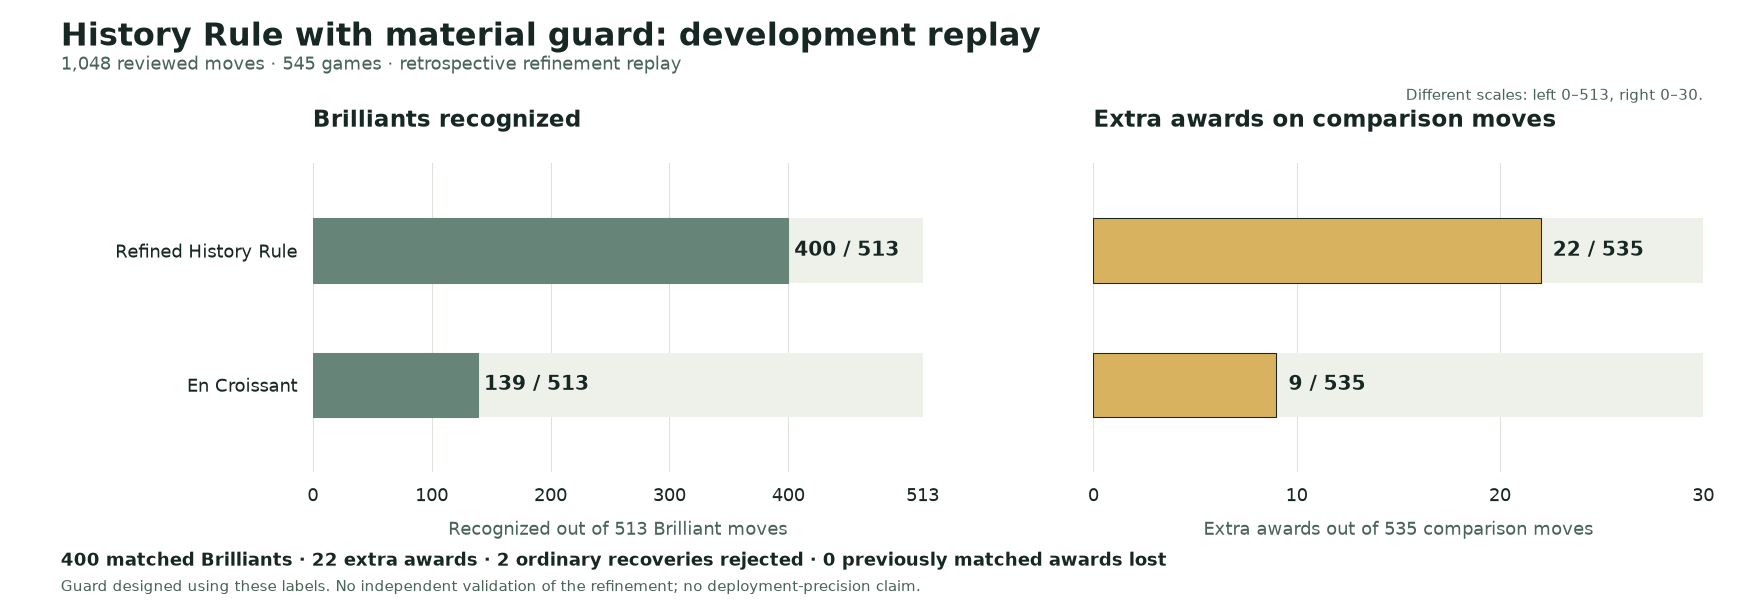
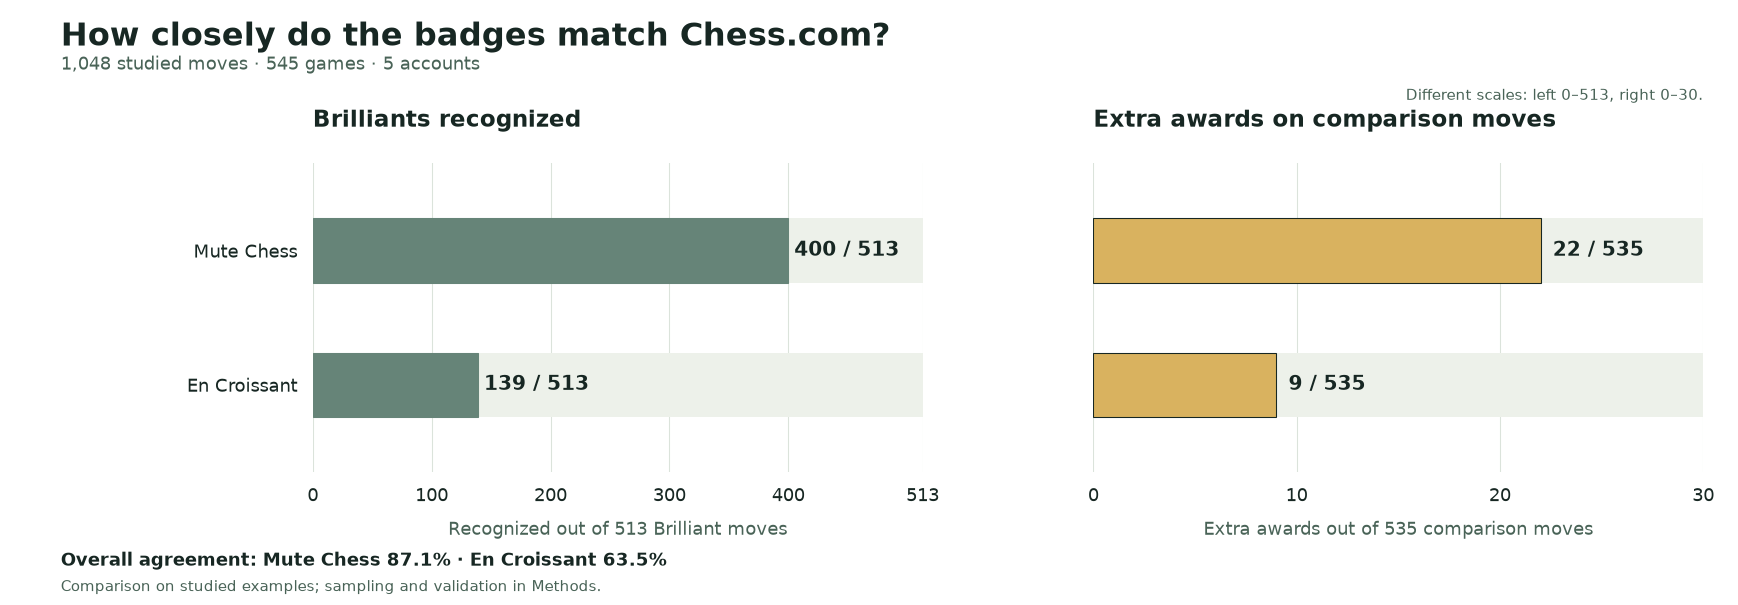
Rewrite Brilliant report as one visual reader-focused study

Changed region(s): [[0.0311, 0.8926, 0.6835, 0.9818], [0.0311, 0.0298, 0.6214, 0.119], [0.0621, 0.3868, 0.1864, 0.4463]]

diff --git a/studies/brilliant-moves/reader-figures.py b/studies/brilliant-moves/reader-figures.py
@@ -27,7 +27,7 @@ def render(names,filename,heading,footer,retrospective=False):
     fig,axes=plt.subplots(1,2,figsize=(15.8,5.5),dpi=110,sharey=True)
     fig.patch.set_facecolor('white')
     fig.suptitle(heading,x=.035,y=.965,ha='left',fontsize=21,color=COLORS['ink'],weight='bold')
-    fig.text(.035,.885,'1,048 reviewed moves · 545 games · retrospective refinement replay' if retrospective else '200 moves · 106 games · 100 observed Brilliant + 100 explicitly non-Brilliant',fontsize=12,color=COLORS['muted'])
+    fig.text(.035,.885,'1,048 studied moves · 545 games · 5 accounts' if retrospective else '200 moves · 106 games · 100 observed Brilliant + 100 explicitly non-Brilliant',fontsize=12,color=COLORS['muted'])
     audit=[]
     for ax,kind,title,color in zip(axes,['positive','negative'],['Brilliants recognized','Extra awards on comparison moves'],[COLORS['moss'],COLORS['gold']]):
         for i,(key,label) in enumerate(names):
@@ -47,7 +47,7 @@ def render(names,filename,heading,footer,retrospective=False):
     axes[1].tick_params(labelleft=False)
     fig.text(.98,.835,'Different scales: left 0–513, right 0–30.' if retrospective else 'Panels use different scales: left 0–100, right 0–10.',ha='right',fontsize=10,color=COLORS['muted'])
     fig.text(.035,.065,footer,fontsize=12,color=COLORS['ink'],weight='bold')
-    fig.text(.035,.023,'Guard designed using these labels. No independent validation of the refinement; no deployment-precision claim.' if retrospective else 'Balanced, challenging sample. These rates do not establish ordinary-game badge frequency or deployment precision.',fontsize=10,color=COLORS['muted'])
+    fig.text(.035,.023,'Comparison on studied examples; sampling and validation in Methods.' if retrospective else 'Balanced, challenging sample. These rates do not establish ordinary-game badge frequency or deployment precision.',fontsize=10,color=COLORS['muted'])
     fig.subplots_adjust(left=.18,right=.98,top=.73,bottom=.22,wspace=.28)
     out=ROOT/'figures';out.mkdir(exist_ok=True)
     for ext in ('png','svg'):fig.savefig(out/f'{filename}.{ext}',facecolor='white',dpi=110)
@@ -58,4 +58,4 @@ if __name__=='__main__':
     render([('S','Unrefined History Rule'),('ec_direct','En Croissant')],'history-vs-ec','Unrefined History Rule: historical independent test','78% recognized · 5 extra awards / 100 controls · 94.0% sample badge precision · 86.5% overall agreement')
     render([('forest','Mute selective model'),('S','Unrefined history rule'),('ec_direct','En Croissant')],'fresh-test-results','Matching Chess.com’s Brilliant badges','Selective model: 55% recognized · 1 extra / 100 controls · 98.2% sample precision · 77% agreement')
 
-    render([('refined','Refined History Rule'),('ec_direct','En Croissant')],'history-recovery-replay','History Rule with material guard: development replay','400 matched Brilliants · 22 extra awards · 2 ordinary recoveries rejected · 0 previously matched awards lost',True)
+    render([('refined','Mute Chess'),('ec_direct','En Croissant')],'history-recovery-replay','How closely do the badges match Chess.com?','Overall agreement: Mute Chess 87.1% · En Croissant 63.5%',True)

diff --git a/studies/brilliant-moves/REPORT.md b/studies/brilliant-moves/REPORT.md
@@ -1,49 +1,47 @@
-# Adopt the Mute History Rule—with a material-recovery guard
+# Making Brilliant badges feel at home on Mute Chess
 
-**We recommend the Mute History Rule with a narrow material-recovery guard.** It celebrates genuine sacrifice ideas while rejecting two ordinary recoveries that previously received extra badges.
+Chess.com’s Brilliant badge makes a good chess idea feel special. Our goal is to bring that experience to an open chess platform: celebrate sound sacrifices, including quiet ones, with rules that anyone can inspect.
 
-Across **1,048 reviewed moves**, the refined rule retains **all 400 previously matched Chess.com Brilliants**, misses 113, and gives **22 extra awards** among 535 explicitly non-Brilliant moves. The guard removes two extras and changes no other decision in this replay.
+**We recommend adopting the Mute History Rule.** It recognizes substantially more of the studied Chess.com Brilliants than our En Croissant starting point, while checking for repeated offers and ordinary material recovery.
 
-**This is development evidence, not an independent accuracy test of the refinement.** The guard was designed using these positions and labels. It has **zero new unseen validation moves**. Preserving 400 matching awards here does not guarantee that no future Brilliant will be lost.
+## What we studied
 
-![Refined History Rule and En Croissant on the reviewed development corpus.](figures/history-recovery-replay.png)
+We examined **1,048 labeled moves from 545 games** played by nelsi, hansen, KNVB, GothamChess and Hikaru. Each move has a recorded Chess.com classification, its full game history and engine analysis. We compared our rule with En Croissant on the same positions and analysis.
 
-## What the evidence establishes
+Chess.com does not publish its complete formula. Its [guidance](https://support.chess.com/en/articles/8572705-how-are-moves-classified-what-is-a-blunder-or-brilliant-etc) describes good piece sacrifices, position conditions and player-strength considerations. We used those published ideas and the observed moves to build an understandable Mute policy.
 
-The corpus contains **1,048 moves from 545 games** across nelsi, hansen, KNVB, GothamChess and Hikaru. It supports two distinct evidence types:
+## The rules we chose
 
-| Evidence | Result | What it tests |
-| --- | --- | --- |
-| Refined rule: all 1,048 reviewed moves | **400 matches, 113 misses, 22 extras, 513 correct withholds** | Retrospective development replay |
-| Frozen History Rule: separate 200-move test | **78 matches, 22 misses, 5 extras, 95 correct withholds** | Independent test of the rule **without the new guard** |
-| Unseen test of the material guard | **Not yet available** | Needed to assess generalization of the refinement |
+- **Keep the move sound.** Current and previous completed engine checks must both support its quality.
+- **Look for a real piece offer.** The offered piece can be somewhere other than the piece that moved.
+- **Check the position’s context.** An already-converted position with a safe winning alternative should not receive an automatic sacrifice badge.
+- **Remember earlier offers.** A quiet follow-up should not earn another badge merely because the same sacrifice remains available; a new tactical idea can make the difference.
+- **Account for ordinary recovery.** Some apparent offers simply recover material elsewhere. A narrow check covers legal defenses before withholding those badges.
 
-The frozen 200-move result remains **86.5% agreement**, **78% recognition** and **94.0% sample badge precision**. It recognized three times En Croissant’s 26 Brilliants, with five extras versus two. Applying the new guard to that same subset leaves three extras, but **that is retrospective reuse, not a revised untouched test score**. Neither result establishes 90% agreement or deployment precision.
+## Quiet moves can be Brilliant
 
-## Two ordinary recoveries that should not earn Brilliant
+![A quiet bishop retreat leaves a rook available.](visuals/outputs/quiet-offer-bg2.gif)
 
-![A knight is recovered on another square after hxg6.](visuals/outputs/routine-hxg6.gif)
+[Hikaru’s 27.Bg2](https://www.chess.com/analysis/game/live/186567991235/review?move=52) retreats a bishop while leaving a rook available. Chess.com and Mute both recognize the idea. The illustrated **...Bxb1 Rxb1** continuation trades a rook for a bishop; these replies are conditional, not claimed forced or played.
 
-After [nelsi’s 18...hxg6](https://www.chess.com/analysis/game/live/171488501692/review?move=35), White can take the knight with **Bxc4**. Black has **...Qc5+**, followed by **...Qxc4** after each legal defense. The illustrated **Kh1** is just one of four replies covered by the material check. The knight and bishop are traded; Black finishes a pawn ahead. Chess.com labels hxg6 Best, and the refined rule withholds Brilliant.
+## An apparent sacrifice can be an ordinary trade
 
-![After hxg5, a quiet bishop move enables recovery of another rook.](visuals/outputs/routine-hxg5.gif)
+![After hxg6, a queen check enables recovery on another square.](visuals/outputs/routine-hxg6.gif)
 
-After [hansen’s 15...hxg5](https://www.chess.com/analysis/game/live/173517772799/review?move=29), **Bxa8** appears to win a rook. But **...Ba6** creates a threat against the other rook. The illustrated **Bg2 Bxf1 Rxf1** continuation returns material to balance. The check covers all 43 legal replies to Ba6, with different recovery captures where needed. Chess.com labels hxg5 Best; the refined rule now agrees.
+After [18...hxg6](https://www.chess.com/analysis/game/live/171488501692/review?move=35), **Bxc4 Qc5+** lets Black recover the bishop after every legal defense. The animation shows one such continuation. Black trades a knight for a bishop and finishes a pawn ahead. Chess.com calls hxg6 Best, and Mute withholds Brilliant. The [rook-recovery example](visuals/outputs/routine-hxg5.gif) shows a similar distinction.
 
-Only each first move has the observed label. Subsequent moves are **conditional legal illustrations**, not asserted game continuations or forced choices. The recovery certificate covers defenses more broadly than the single animation, within its documented finite material model.
+## How closely do the badges match?
 
-## How the classifier makes the call
+![Mute Chess and En Croissant compared with Chess.com on the studied examples.](figures/history-recovery-replay.png)
 
-The History Rule requires a legal piece offer, adequate engine-assessed quality and corroborating sacrifice or mating evidence. Current and previous completed engine checks must both pass. Its history check prevents an unchanged quiet follow-up earning another badge merely because an earlier awarded sacrifice remains available. New tactical ideas have documented exceptions.
+| On the studied examples | Mute Chess | En Croissant |
+| --- | ---: | ---: |
+| Chess.com Brilliants recognized | **400 / 513** | 139 / 513 |
+| Extra awards on non-Brilliant moves | **22 / 535** | 9 / 535 |
+| Overall agreement | **87.1%** | 63.5% |
 
-The material guard is deliberately narrower than “material comes back, so no Brilliant.” It applies only to an eligible non-checking capture that leaves **all offered pieces unmoved and already exposed**. The opponent’s best after-position move must accept an eligible offer in **both completed engine windows**.
+Mute recognizes about **2.9 times as many Brilliants**, with more extra awards. That is the explicit tradeoff behind our recommendation: make more worthwhile ideas visible, using documented rules rather than treating every temporary offer as special.
 
-For every qualifying acceptance, the guard must find a quiet response covering **every legal defense** with a stable material-recovery capture. Its exact threshold, same-square recapture accounting and search caps are open in the [algorithm README](README.md). Missing evidence or exhausted limits cannot establish a veto. Newly created offers and moved-piece sacrifices are protected by these eligibility restrictions.
+**These results describe the studied examples; fresh-game testing is underway before release.**
 
-## Keep the genuine ideas
-
-The guard preserves all previously matched Brilliants in the reviewed corpus, including [Hansen’s Bxh7+ example](visuals/outputs/fresh-bxh7.gif). It also preserves the development [quiet Bg2 idea](visuals/outputs/quiet-offer-bg2.gif), where a bishop retreat leaves a rook available. Recovery alone is not a generic reason to reject a tactical sacrifice.
-
-We recommend this documented heuristic as a Mute policy, not a reconstruction of [Chess.com’s private formula](https://support.chess.com/en/articles/8572705-how-are-moves-classified-what-is-a-blunder-or-brilliant-etc). The balanced, challenging corpus and five established accounts do not establish beginner behavior or ordinary-game badge frequency. Game Review labels are comparison evidence; moves share games, limiting independent-move uncertainty estimates.
-
-Adoption is recommended, **not claimed deployed**. Research evidence uses **SF18 at 300,000 requested nodes**. Native SF19 and varying browser budgets remain unvalidated. Mobile Maia stays on its existing En Croissant-based classifier. [Methods](METHODS.md), [exact rules](README.md) and preserved historical results make those boundaries inspectable.
+Adopt the History Rule for Mute Chess. Keep the [exact algorithm](README.md), [sampling and validation methods](METHODS.md), and move-level evidence open. Mobile Maia keeps its existing En Croissant-based classifier.

diff --git a/README.md b/README.md
@@ -2,19 +2,17 @@
 
 Readable studies, visual explanations and the evidence behind Mute Chess's design decisions.
 
-## Brilliant moves: History Rule with a material-recovery guard
+## Brilliant moves: a Chess.com-like experience with open rules
 
-![The refined History Rule on the reviewed development corpus.](studies/brilliant-moves/figures/history-recovery-replay.png)
+![Mute Chess and En Croissant compared on the studied examples.](studies/brilliant-moves/figures/history-recovery-replay.png)
 
-**[Read: Adopt the Mute History Rule—with a material-recovery guard →](studies/brilliant-moves/REPORT.md)**
+**[Read: Making Brilliant badges feel at home on Mute Chess →](studies/brilliant-moves/REPORT.md)**
 
-We recommend the **Mute History Rule with a narrow material-recovery guard**. In the 1,048-move development replay it retains **all 400 previously matched Chess.com Brilliants** and removes exactly two extra awards; **22 extras and 113 misses remain**. The guard was designed using these positions and labels: **it has no new unseen validation yet**.
+We recommend the **Mute History Rule**. Across **1,048 studied moves from 545 games**, it recognizes **400 of 513 Chess.com Brilliants**, compared with En Croissant’s 139. Overall agreement is **87.1% versus 63.5%**. Mute also gives more extra awards: **22 of 535 comparison moves versus 9**. The report explains the tradeoff through quiet sacrifices, repeated offers and ordinary material recovery.
 
-The preserved independent 200-move test of the **unrefined** History Rule recognized 78/100 Brilliants with 5 extra awards, 86.5% agreement and 94.0% sample badge precision. The refined 78/3 result on that same subset is retrospective reuse, **not a revised untouched test score**. The full corpus covers 545 games; comparison models and original evidence remain inspectable.
+**These results describe the studied examples; fresh-game testing is underway before release.** Mobile Maia keeps its existing En Croissant-based classifier.
 
-Two native-board illustrations show why ordinary hxg6/hxg5 recoveries are now withheld while all 400 previously matched awards remain. This does not guarantee that no future Brilliant will be lost. **Adoption is recommended, not claimed deployed. Native SF19 and variable browser budgets remain unvalidated. Mobile Maia stays unchanged.**
-
-[Exact rules](studies/brilliant-moves/README.md) · [Methods and evidence roles](studies/brilliant-moves/METHODS.md) · [Refinement outcomes](studies/brilliant-moves/data/history-recovery-results.json) · [Original move-level evidence](studies/brilliant-moves/moves.csv) · [Earlier 618-move report](https://github.com/Dash1971/mute-chess-research/blob/c6969d1/studies/brilliant-moves/REPORT.md)
+[Exact rules](studies/brilliant-moves/README.md) · [Methods and validation](studies/brilliant-moves/METHODS.md) · [Move-level evidence](studies/brilliant-moves/moves.csv)
 
 ## Elo seeding: giving human-like opponents useful starting ratings
 
@@ -31,7 +29,3 @@ The complete study directories were copied byte for byte from [mobile-maia-resea
 Each study separates observations, interpretations and recommendations. Public game records, source pins, limitations and reproduction material accompany the reports. No authenticated session data or raw cookie-bearing response metadata is published.
 
 The original [AGPL-3.0-only license](LICENSE) is retained for the copied research. Third-party code and visual evidence retain their own attribution and licensing; see the brilliant study's [reference notes](studies/brilliant-moves/reference/README.md). Reports and preparation used OpenAI Codex assistance. This repository is independent of Chess.com, Lichess and En Croissant.
-
-## Archived studies
-
-The [feasibility study](studies/brilliant-moves-pilot-2026-11-03/REPORT.md), [tactical reference positions](studies/brilliant-moves-followup-2026-11-03/README.md) and [development-reference release](studies/brilliant-moves-2026-11-03/REPORT.md) remain available with their original denominators. Use the unified report above for the complete current comparison.

diff --git a/studies/brilliant-moves/METHODS.md b/studies/brilliant-moves/METHODS.md
@@ -121,3 +121,7 @@ The two new native-board recovery animations are generated from [cases-recovery.
 ## Native refined-rule reference
 
 The readable [native History Rule and recovery integration](reference/native-history-v7/ui/analyse/src/noSweatClassify.ts), [source mapping](reference/native-history-v7/SOURCE-MAPPING.json), [summary](reference/native-history-v7/SUMMARY.json) and [parity trace](reference/native-history-v7/parity.json) preserve the completed 1,048-input comparison: zero decision, guard-certificate or full EC-result differences, 57 focused checks. This is parity on retrospective development evidence, not an additional unseen test. The [six](data/history-origin-six.json) and [ten](data/history-origin-completion.json) supporting history-origin snapshots remain separate; no core window is replaced. Native timed SF19 and variable budgets remain unvalidated.
+
+## Technical archives
+
+Earlier source/evidence releases remain available without becoming part of the current reader narrative: [the feasibility study](../brilliant-moves-pilot-2026-11-03/REPORT.md), [tactical references](../brilliant-moves-followup-2026-11-03/README.md), [development-reference release](../brilliant-moves-2026-11-03/REPORT.md), and [the earlier report at commit c6969d1](https://github.com/Dash1971/mute-chess-research/blob/c6969d1/studies/brilliant-moves/REPORT.md). Their original denominators and validation roles are retained.
